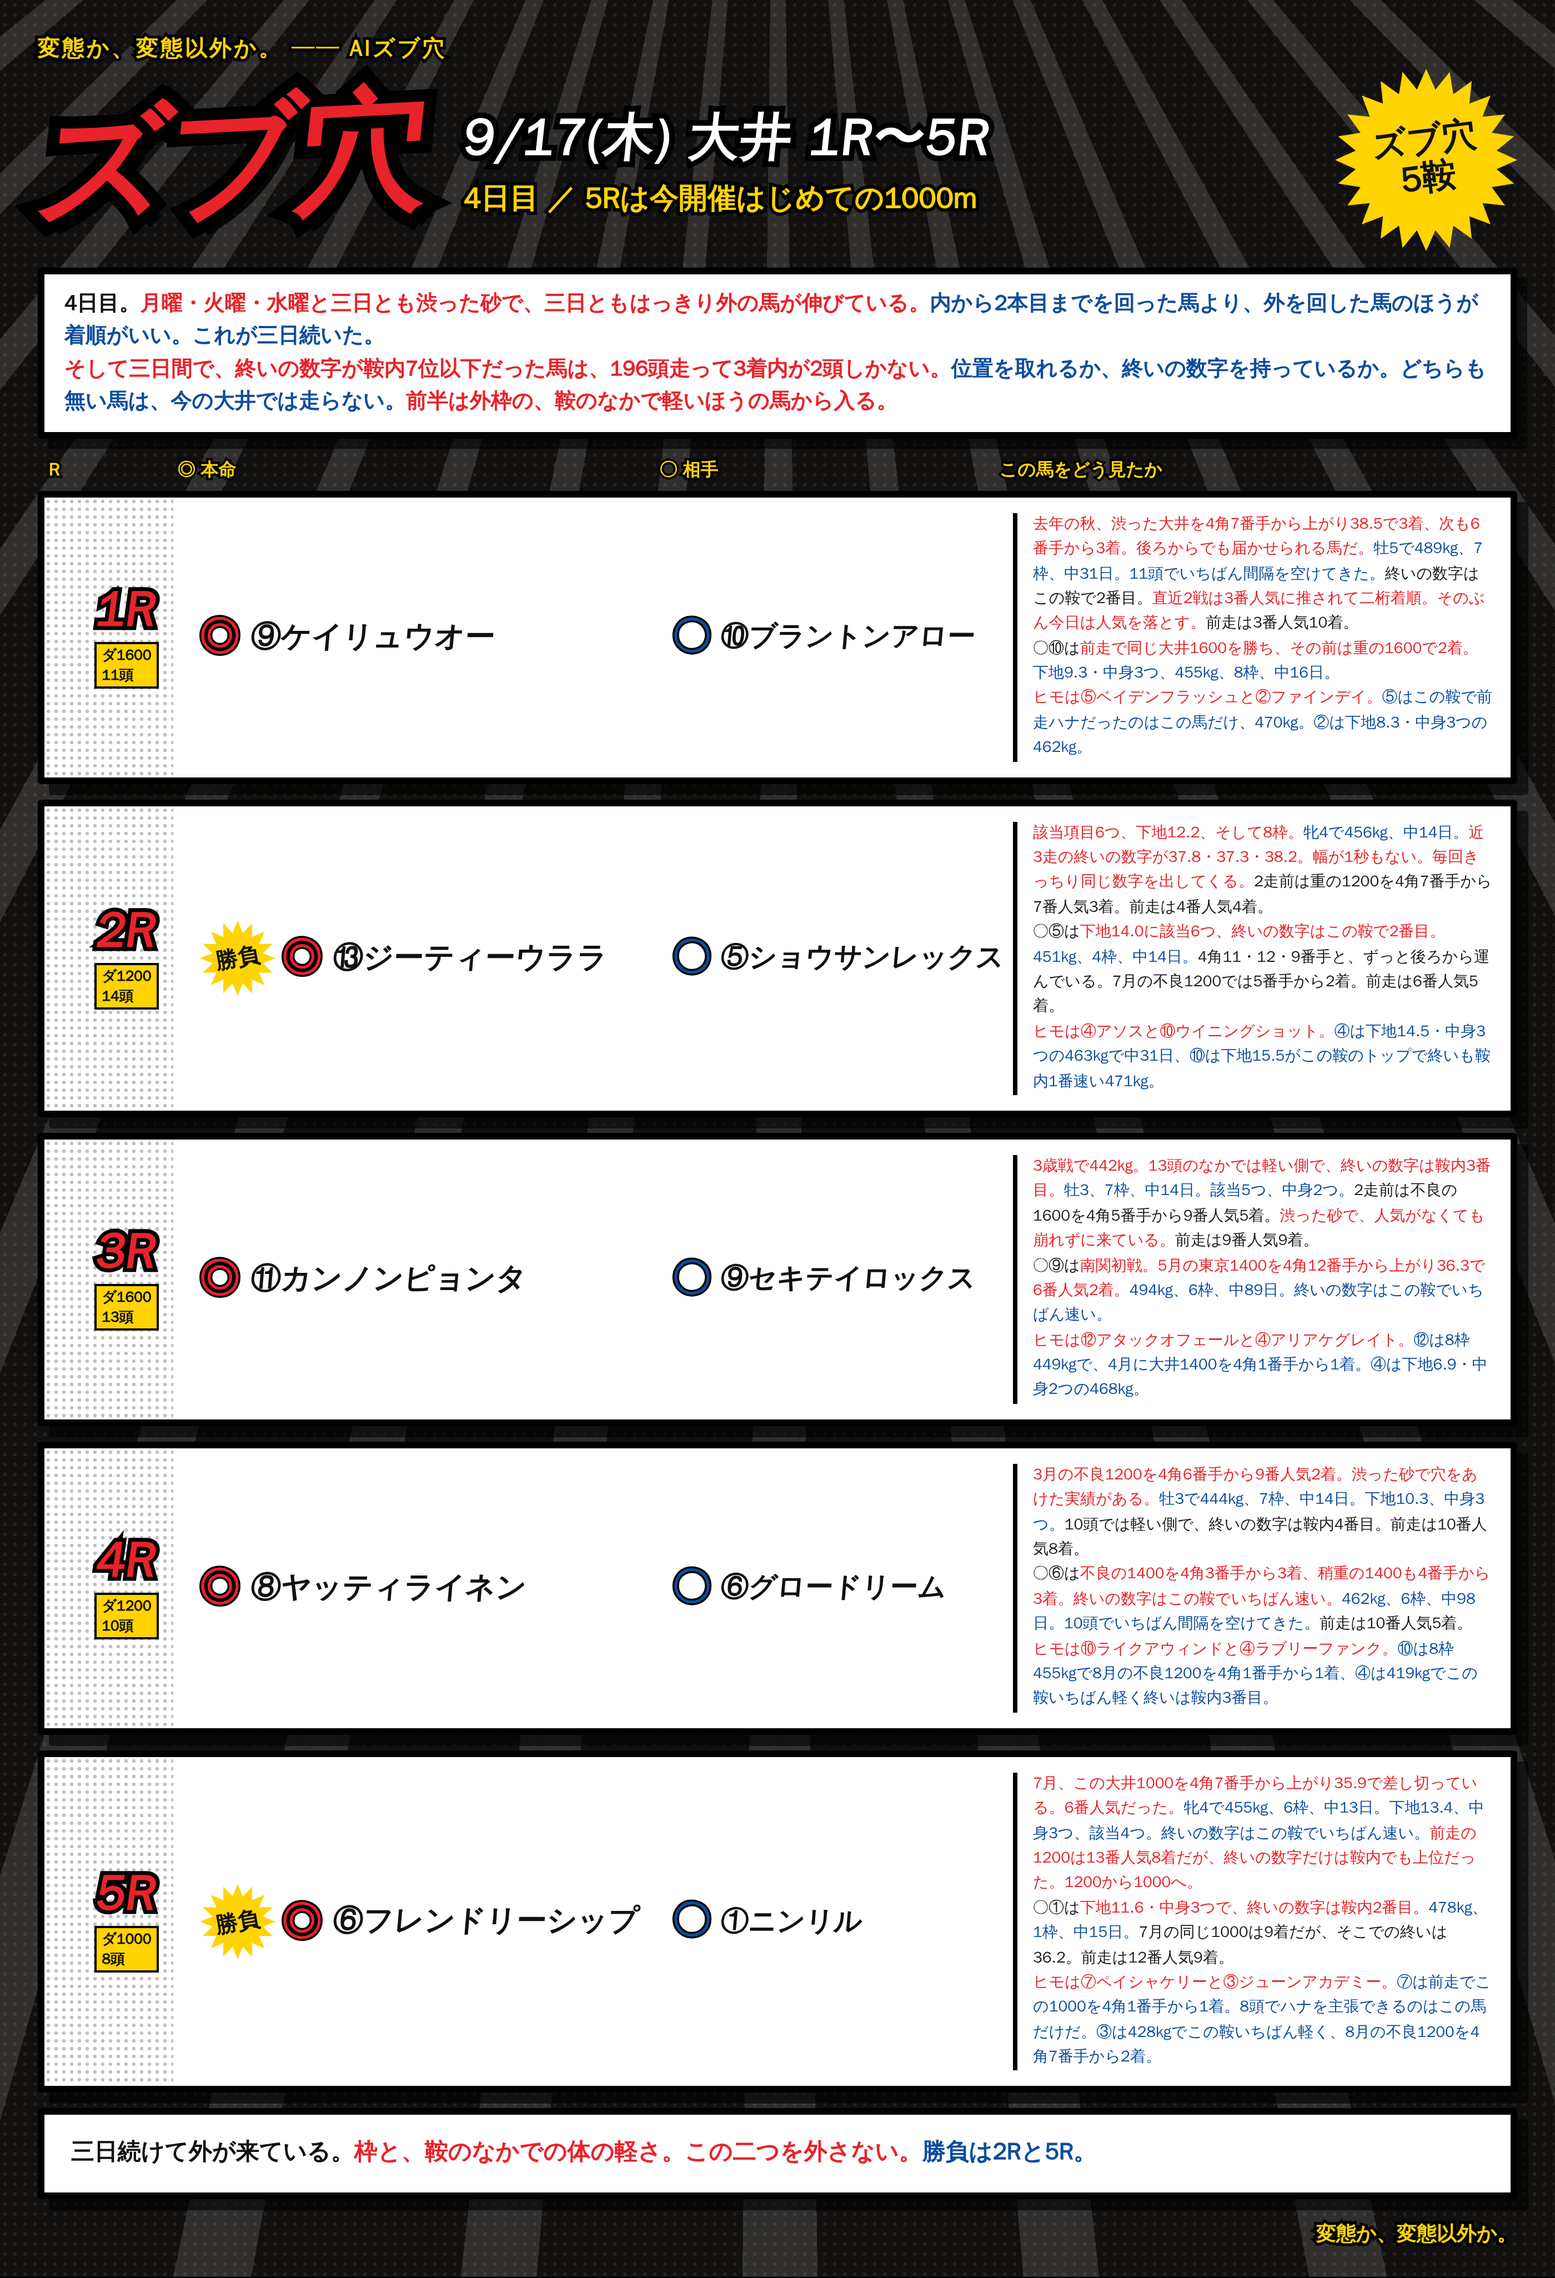
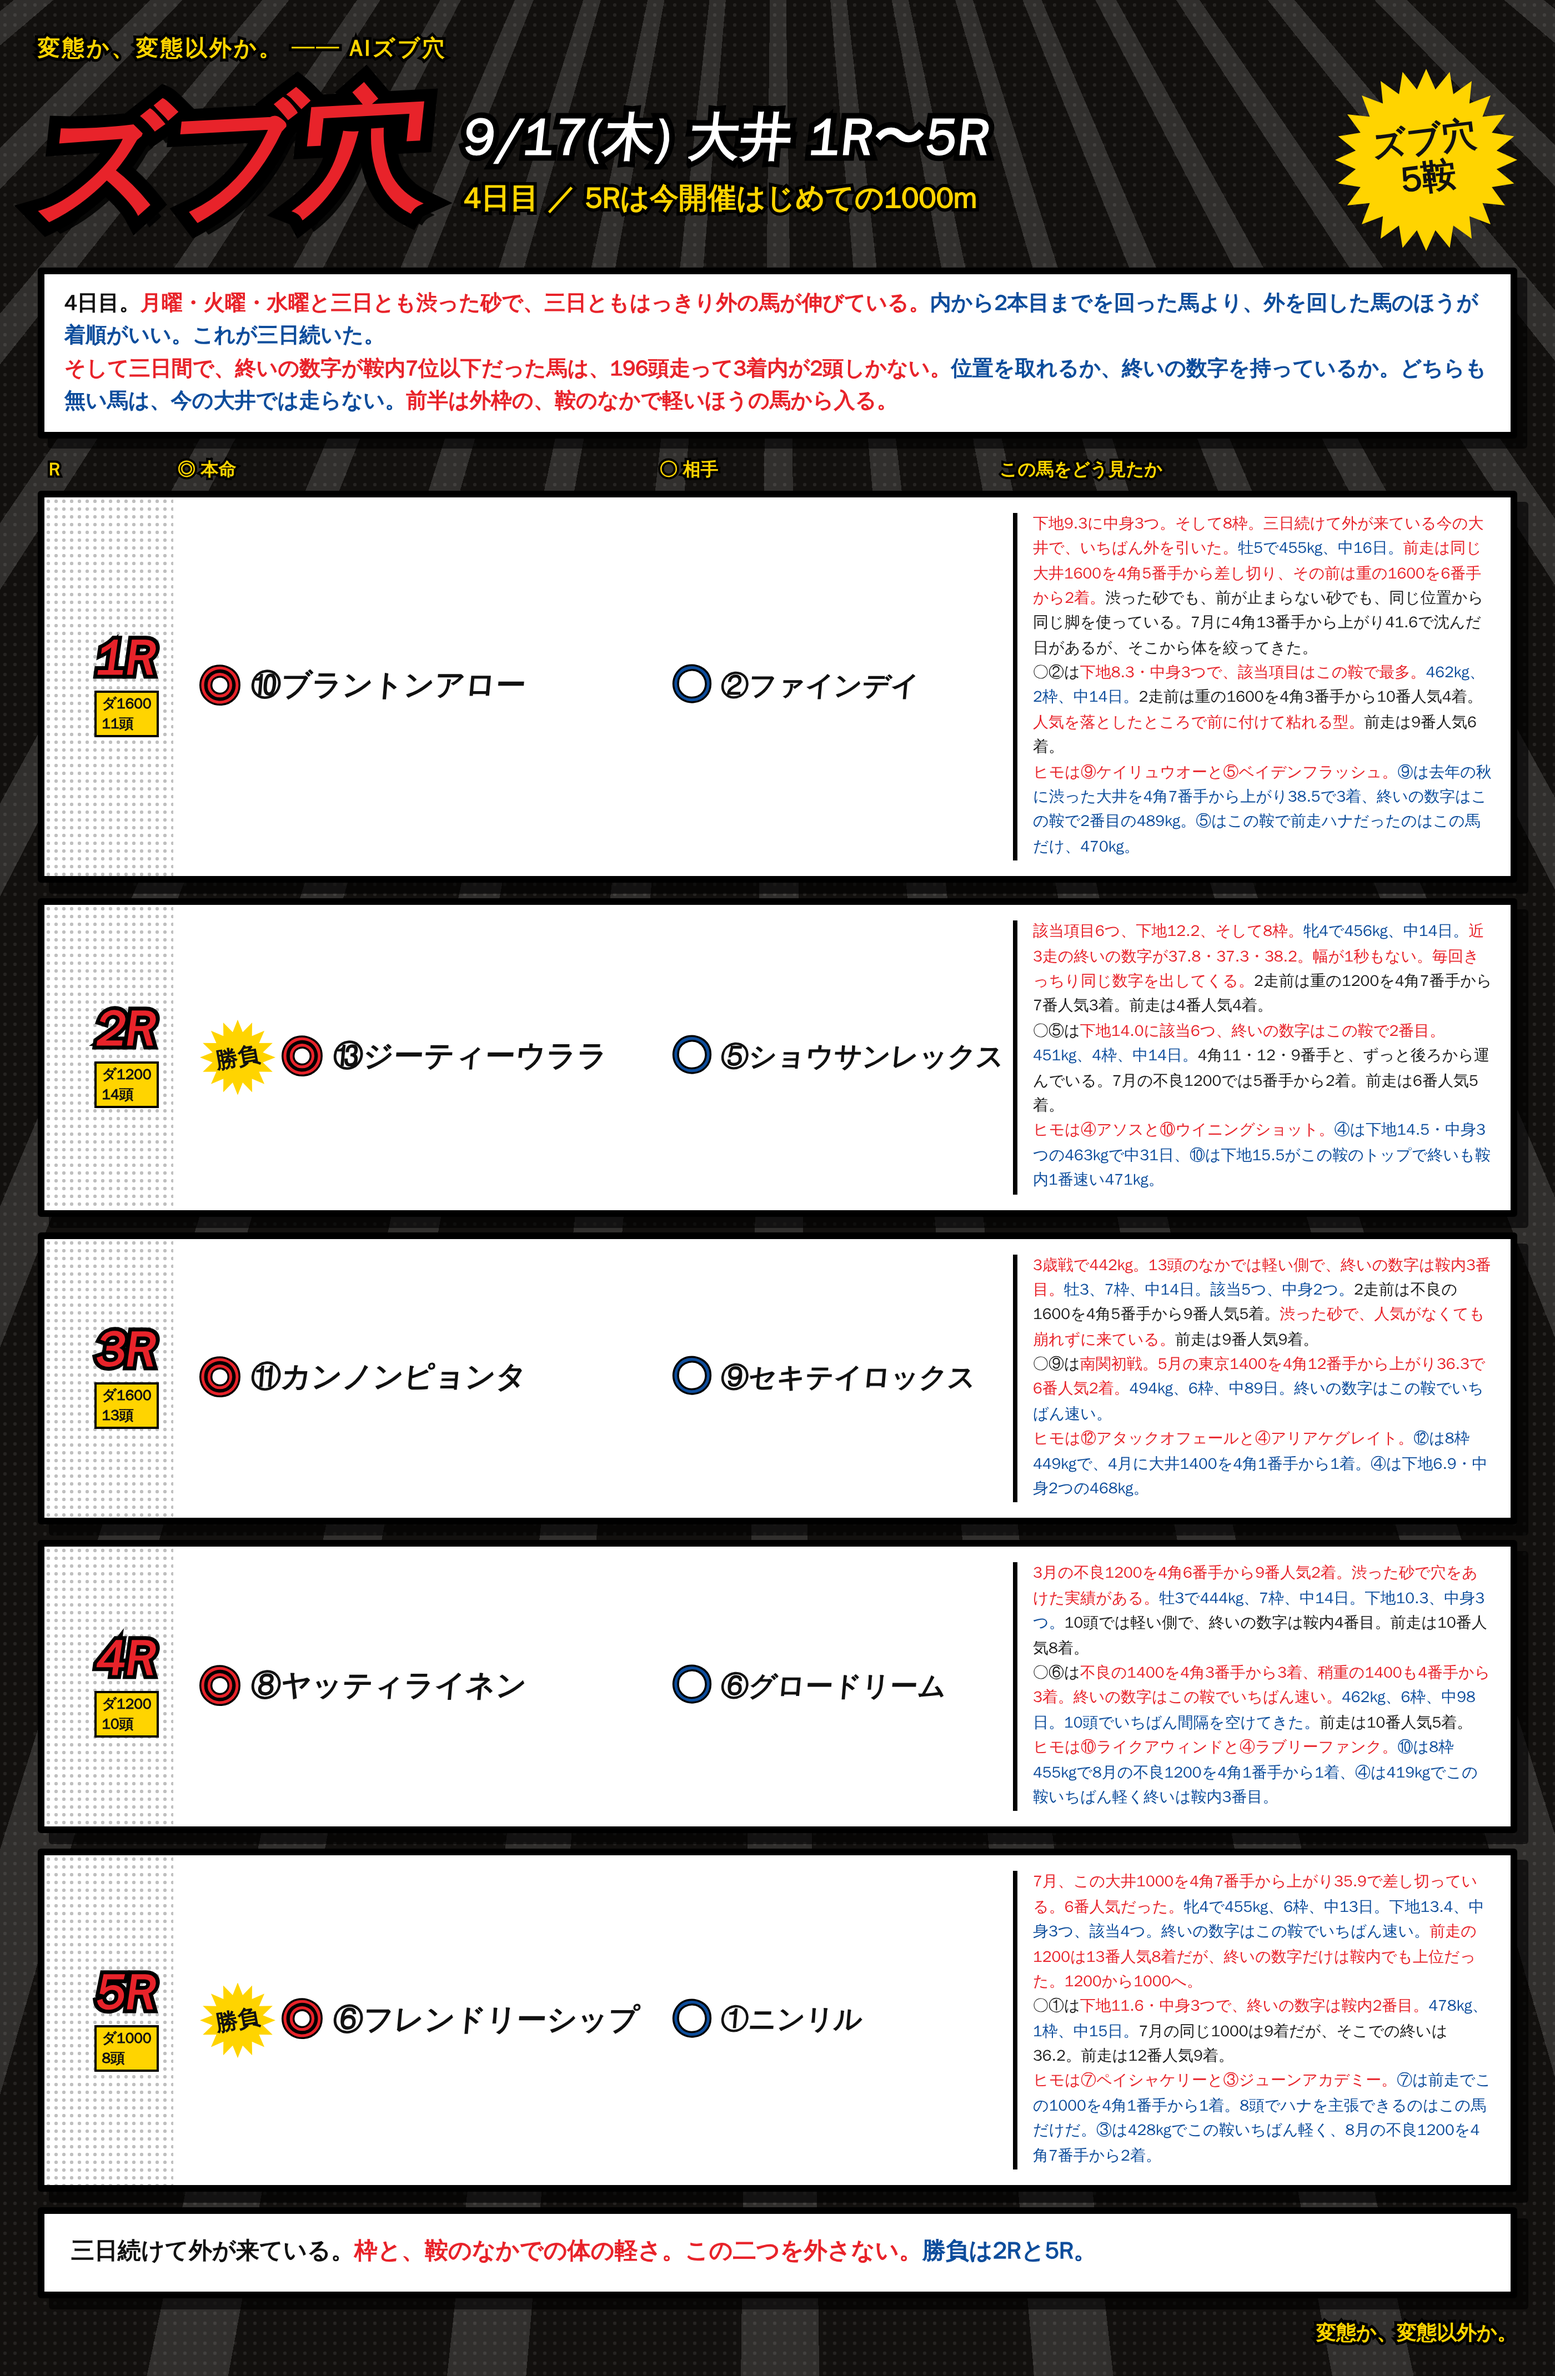
1Rを◎⑩ブラントンアロー ○②ファインデイに変更
ヒモを⑨ケイリュウオー・⑤ベイデンフラッシュに。

Claude-Session: https://claude.ai/code/session_01RoHscZkr96FNaxQWvUqgEw

diff --git a/notes/live/2026-09-17/oi_1_5.html b/notes/live/2026-09-17/oi_1_5.html
@@ -81,7 +81,7 @@
 <div class="head"><div class="gekiga">ズブ穴</div><div class="dateblk"><div class="d1">9/17(木) 大井 1R〜5R</div><div class="d2">4日目 ／ 5Rは今開催はじめての1000m</div></div><div class="burst"><span>ズブ穴<br>5鞍</span></div></div>
 <div class="lead">4日目。<span class="r">月曜・火曜・水曜と三日とも渋った砂で、三日ともはっきり外の馬が伸びている。</span><span class="b">内から2本目までを回った馬より、外を回した馬のほうが着順がいい。これが三日続いた。</span><br><span class="r">そして三日間で、終いの数字が鞍内7位以下だった馬は、196頭走って3着内が2頭しかない。</span><span class="b">位置を取れるか、終いの数字を持っているか。どちらも無い馬は、今の大井では走らない。</span><span class="r">前半は外枠の、鞍のなかで軽いほうの馬から入る。</span></div>
 <div class="cols"><div class="cR">R</div><div class="cH">◎ 本命</div><div class="cA">○ 相手</div><div class="cM">この馬をどう見たか</div></div>
-<div class="row"><div class="corner"></div><div class="rN"><div class="n">1R</div><div class="d">ダ1600<br>11頭</div></div><div class="hm"><span class="mk">◎</span><span class="nm">⑨ケイリュウオー</span></div><div class="at"><span class="mk2">○</span><span class="nm2">⑩ブラントンアロー</span></div><div class="memo"><b class="r">去年の秋、渋った大井を4角7番手から上がり38.5で3着、次も6番手から3着。後ろからでも届かせられる馬だ。</b><b>牡5で489kg、7枠、中31日。11頭でいちばん間隔を空けてきた。</b>終いの数字はこの鞍で2番目。<b class="r">直近2戦は3番人気に推されて二桁着順。そのぶん今日は人気を落とす。</b>前走は3番人気10着。<br>○⑩は<b class="r">前走で同じ大井1600を勝ち、その前は重の1600で2着。</b><b>下地9.3・中身3つ、455kg、8枠、中16日。</b><br><b class="r">ヒモは⑤ベイデンフラッシュと②ファインデイ。</b><b>⑤はこの鞍で前走ハナだったのはこの馬だけ、470kg。②は下地8.3・中身3つの462kg。</b></div></div>
+<div class="row"><div class="corner"></div><div class="rN"><div class="n">1R</div><div class="d">ダ1600<br>11頭</div></div><div class="hm"><span class="mk">◎</span><span class="nm">⑩ブラントンアロー</span></div><div class="at"><span class="mk2">○</span><span class="nm2">②ファインデイ</span></div><div class="memo"><b class="r">下地9.3に中身3つ。そして8枠。三日続けて外が来ている今の大井で、いちばん外を引いた。</b><b>牡5で455kg、中16日。</b><b class="r">前走は同じ大井1600を4角5番手から差し切り、その前は重の1600を6番手から2着。</b>渋った砂でも、前が止まらない砂でも、同じ位置から同じ脚を使っている。7月に4角13番手から上がり41.6で沈んだ日があるが、そこから体を絞ってきた。<br>○②は<b class="r">下地8.3・中身3つで、該当項目はこの鞍で最多。</b><b>462kg、2枠、中14日。</b>2走前は重の1600を4角3番手から10番人気4着。<b class="r">人気を落としたところで前に付けて粘れる型。</b>前走は9番人気6着。<br><b class="r">ヒモは⑨ケイリュウオーと⑤ベイデンフラッシュ。</b><b>⑨は去年の秋に渋った大井を4角7番手から上がり38.5で3着、終いの数字はこの鞍で2番目の489kg。⑤はこの鞍で前走ハナだったのはこの馬だけ、470kg。</b></div></div>
 <div class="row"><div class="corner"></div><div class="rN"><div class="n">2R</div><div class="d">ダ1200<br>14頭</div></div><div class="hm"><div class="sb"><span>勝負</span></div><span class="mk">◎</span><span class="nm">⑬ジーティーウララ</span></div><div class="at"><span class="mk2">○</span><span class="nm2">⑤ショウサンレックス</span></div><div class="memo"><b class="r">該当項目6つ、下地12.2、そして8枠。</b><b>牝4で456kg、中14日。</b><b class="r">近3走の終いの数字が37.8・37.3・38.2。幅が1秒もない。毎回きっちり同じ数字を出してくる。</b>2走前は重の1200を4角7番手から7番人気3着。前走は4番人気4着。<br>○⑤は<b class="r">下地14.0に該当6つ、終いの数字はこの鞍で2番目。</b><b>451kg、4枠、中14日。</b>4角11・12・9番手と、ずっと後ろから運んでいる。7月の不良1200では5番手から2着。前走は6番人気5着。<br><b class="r">ヒモは④アソスと⑩ウイニングショット。</b><b>④は下地14.5・中身3つの463kgで中31日、⑩は下地15.5がこの鞍のトップで終いも鞍内1番速い471kg。</b></div></div>
 <div class="row"><div class="corner"></div><div class="rN"><div class="n">3R</div><div class="d">ダ1600<br>13頭</div></div><div class="hm"><span class="mk">◎</span><span class="nm">⑪カンノンピョンタ</span></div><div class="at"><span class="mk2">○</span><span class="nm2">⑨セキテイロックス</span></div><div class="memo"><b class="r">3歳戦で442kg。13頭のなかでは軽い側で、終いの数字は鞍内3番目。</b><b>牡3、7枠、中14日。該当5つ、中身2つ。</b>2走前は不良の1600を4角5番手から9番人気5着。<b class="r">渋った砂で、人気がなくても崩れずに来ている。</b>前走は9番人気9着。<br>○⑨は<b class="r">南関初戦。5月の東京1400を4角12番手から上がり36.3で6番人気2着。</b><b>494kg、6枠、中89日。終いの数字はこの鞍でいちばん速い。</b><br><b class="r">ヒモは⑫アタックオフェールと④アリアケグレイト。</b><b>⑫は8枠449kgで、4月に大井1400を4角1番手から1着。④は下地6.9・中身2つの468kg。</b></div></div>
 <div class="row"><div class="corner"></div><div class="rN"><div class="n">4R</div><div class="d">ダ1200<br>10頭</div></div><div class="hm"><span class="mk">◎</span><span class="nm">⑧ヤッティライネン</span></div><div class="at"><span class="mk2">○</span><span class="nm2">⑥グロードリーム</span></div><div class="memo"><b class="r">3月の不良1200を4角6番手から9番人気2着。渋った砂で穴をあけた実績がある。</b><b>牡3で444kg、7枠、中14日。下地10.3、中身3つ。</b>10頭では軽い側で、終いの数字は鞍内4番目。前走は10番人気8着。<br>○⑥は<b class="r">不良の1400を4角3番手から3着、稍重の1400も4番手から3着。終いの数字はこの鞍でいちばん速い。</b><b>462kg、6枠、中98日。10頭でいちばん間隔を空けてきた。</b>前走は10番人気5着。<br><b class="r">ヒモは⑩ライクアウィンドと④ラブリーファンク。</b><b>⑩は8枠455kgで8月の不良1200を4角1番手から1着、④は419kgでこの鞍いちばん軽く終いは鞍内3番目。</b></div></div>
